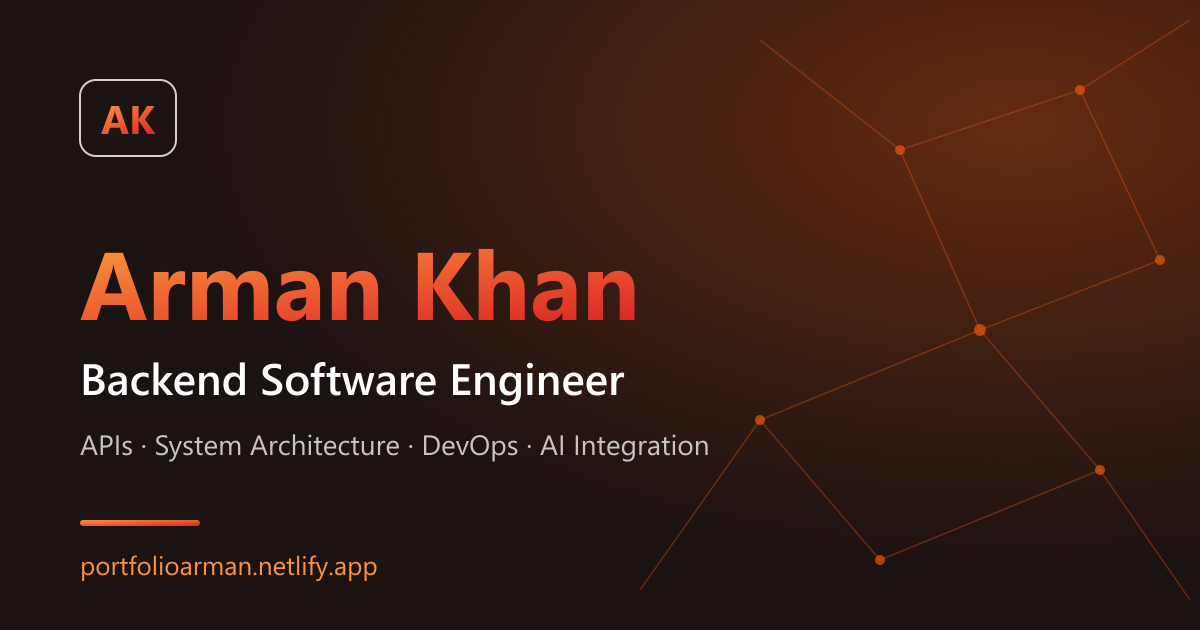
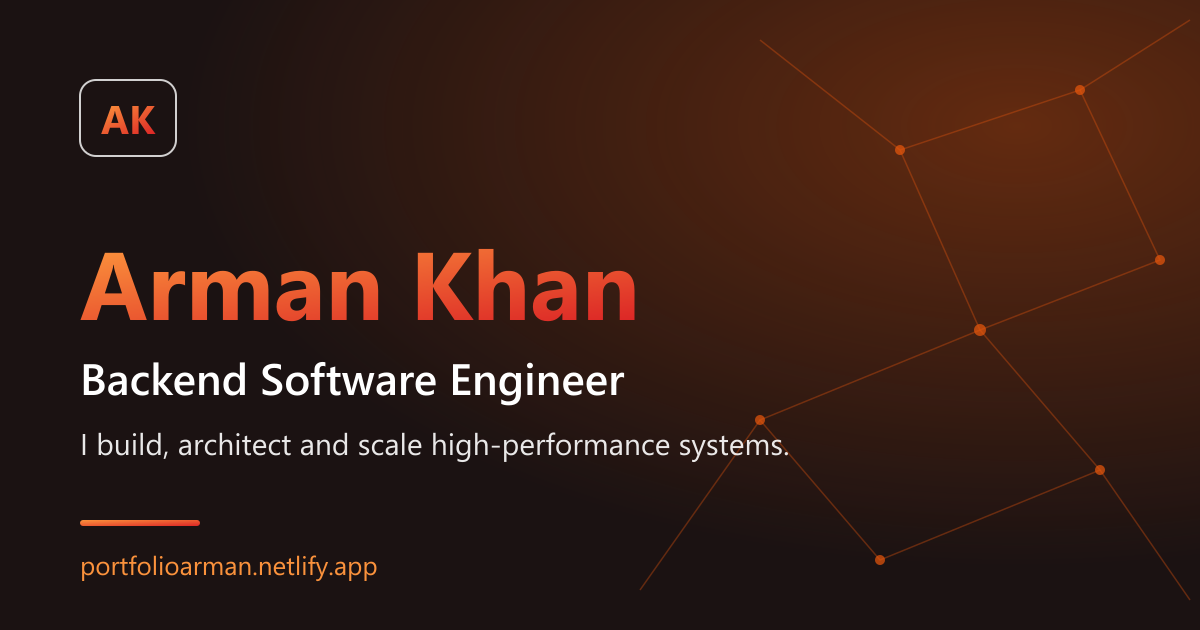
Generalize page intros and refresh social preview text
- Rewrite the Projects and Services intros in broader terms instead of
  listing specific domains and technologies; trim the Experience intro.
- Update the social preview image: add a one-line pitch from the resume
  summary and drop the old topic list.

Changed region(s): [[0.0617, 0.6937, 0.6475, 0.7238]]

diff --git a/src/constants/index.js b/src/constants/index.js
@@ -70,11 +70,11 @@ export const intros = {
   about:
     "Backend-focused Software Engineer who builds, architects and scales high-performance server applications and enterprise infrastructure. I specialize in system architecture, database and API design, and reliability engineering, cutting latency and raising quality wherever I work.",
   experience:
-    "I design and scale production backends that businesses run on. I own the full lifecycle, from system architecture and APIs to automated deployments, monitoring and testing, and I lead and mentor engineers so teams ship faster with fewer defects.",
+    "I design and scale production backends that businesses run on. I own the full lifecycle, from system architecture to automated deployments, monitoring and testing, and I lead and mentor engineers so teams ship faster with fewer defects.",
   projects:
-    "I build complete products, not just features. My work spans network security, AI-powered healthcare, real-time messaging and mobile apps, covering everything from low-level software and backend services to polished interfaces and custom hardware.",
+    "I build complete products, not just features. My work spans diverse domains and every layer of the stack, from low-level software and backend services to polished interfaces and custom hardware, built to solve real problems for real users.",
   services:
-    "I build the backbone of your product: high-performance APIs, scalable data layers and event-driven systems on automated CI/CD. I bring AI into real workflows, keep quality high with automated testing, and ship the web, mobile and desktop apps that sit on top.",
+    "I build the backbone of your product: fast, reliable backends and the infrastructure that keeps them running smoothly at scale. I bring AI into real workflows, keep quality high with automated testing, and ship the web, mobile and desktop apps that sit on top.",
   contact:
     "Have a system to build, scale or rescue? Tell me what you're working on and where you're stuck, and let's get it into production.",
 };
